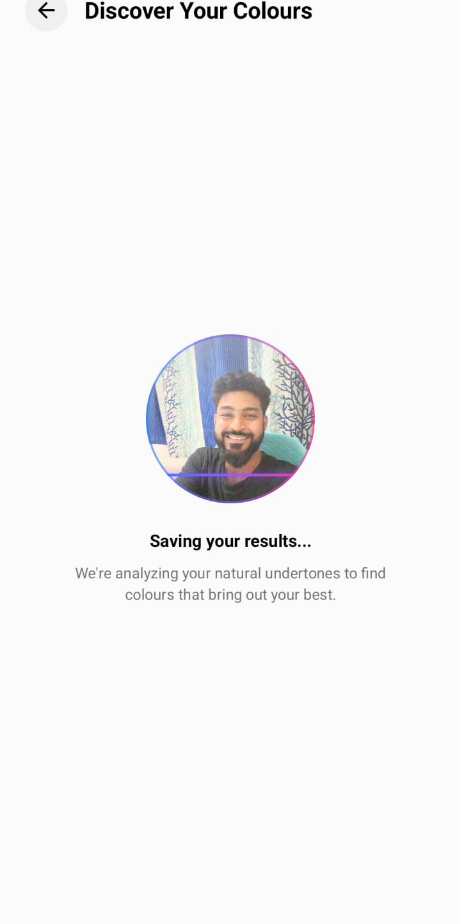
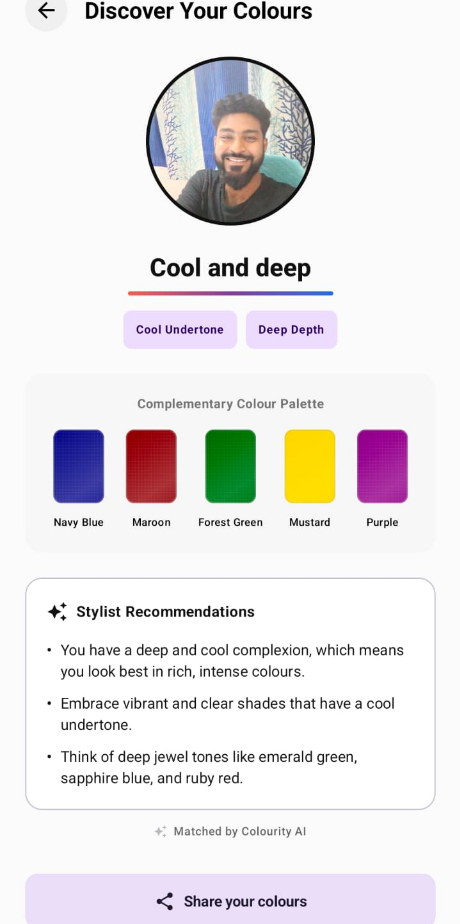
feat: replace Step 1 color analysis mockup with results screen and reduce hero mockup size for sharpness

diff --git a/index.html b/index.html
@@ -129,7 +129,7 @@
   <link rel="preconnect" href="https://fonts.googleapis.com" />
   <link rel="preconnect" href="https://fonts.gstatic.com" crossorigin />
   <link href="https://fonts.googleapis.com/css2?family=Outfit:wght@300;400;500;600;700;800;900&family=Inter:wght@300;400;500;600&display=swap" rel="stylesheet" />
-  <link rel="stylesheet" href="style.css?v=1.0.2" />
+  <link rel="stylesheet" href="style.css?v=1.0.3" />
 </head>
 <body>
 
@@ -212,7 +212,7 @@
 
     <div class="hero-visual">
       <div class="phone-glow"></div>
-      <img src="hero_mockup.png" alt="Colourity app screenshot showing Colourity AI personal colour analysis and outfit matching interface" class="hero-phone" width="520" loading="eager" />
+      <img src="hero_mockup.png" alt="Colourity app screenshot showing Colourity AI personal colour analysis and outfit matching interface" class="hero-phone" width="420" loading="eager" />
     </div>
   </section>
 

diff --git a/blog/12-season-vs-4-season-colour-analysis/index.html b/blog/12-season-vs-4-season-colour-analysis/index.html
@@ -33,7 +33,7 @@
   <link rel="preconnect" href="https://fonts.googleapis.com" />
   <link rel="preconnect" href="https://fonts.gstatic.com" crossorigin />
   <link href="https://fonts.googleapis.com/css2?family=Outfit:wght@300;400;500;600;700;800;900&family=Inter:wght@300;400;500;600&display=swap" rel="stylesheet" />
-  <link rel="stylesheet" href="../../style.css?v=1.0.2" />
+  <link rel="stylesheet" href="../../style.css?v=1.0.3" />
 
   <!-- ===== TECHNICAL SEO: SCHEMAS ===== -->
   <script type="application/ld+json">

diff --git a/blog/bridal-lehenga-colours-by-skin-tone/index.html b/blog/bridal-lehenga-colours-by-skin-tone/index.html
@@ -33,7 +33,7 @@
   <link rel="preconnect" href="https://fonts.googleapis.com" />
   <link rel="preconnect" href="https://fonts.gstatic.com" crossorigin />
   <link href="https://fonts.googleapis.com/css2?family=Outfit:wght@300;400;500;600;700;800;900&family=Inter:wght@300;400;500;600&display=swap" rel="stylesheet" />
-  <link rel="stylesheet" href="../../style.css?v=1.0.2" />
+  <link rel="stylesheet" href="../../style.css?v=1.0.3" />
 
   <!-- ===== TECHNICAL SEO: SCHEMAS ===== -->
   <script type="application/ld+json">

diff --git a/blog/capsule-wardrobe-by-colour-season/index.html b/blog/capsule-wardrobe-by-colour-season/index.html
@@ -33,7 +33,7 @@
   <link rel="preconnect" href="https://fonts.googleapis.com" />
   <link rel="preconnect" href="https://fonts.gstatic.com" crossorigin />
   <link href="https://fonts.googleapis.com/css2?family=Outfit:wght@300;400;500;600;700;800;900&family=Inter:wght@300;400;500;600&display=swap" rel="stylesheet" />
-  <link rel="stylesheet" href="../../style.css?v=1.0.2" />
+  <link rel="stylesheet" href="../../style.css?v=1.0.3" />
 
   <!-- ===== TECHNICAL SEO: SCHEMAS ===== -->
   <script type="application/ld+json">

diff --git a/blog/cloud-dancer-2026-colour-of-the-year-skin-tone/index.html b/blog/cloud-dancer-2026-colour-of-the-year-skin-tone/index.html
@@ -33,7 +33,7 @@
   <link rel="preconnect" href="https://fonts.googleapis.com" />
   <link rel="preconnect" href="https://fonts.gstatic.com" crossorigin />
   <link href="https://fonts.googleapis.com/css2?family=Outfit:wght@300;400;500;600;700;800;900&family=Inter:wght@300;400;500;600&display=swap" rel="stylesheet" />
-  <link rel="stylesheet" href="../../style.css?v=1.0.2" />
+  <link rel="stylesheet" href="../../style.css?v=1.0.3" />
 
   <!-- ===== TECHNICAL SEO: SCHEMAS ===== -->
   <script type="application/ld+json">

diff --git a/blog/complete-guide-indian-skin-tones-and-colours/index.html b/blog/complete-guide-indian-skin-tones-and-colours/index.html
@@ -33,7 +33,7 @@
   <link rel="preconnect" href="https://fonts.googleapis.com" />
   <link rel="preconnect" href="https://fonts.gstatic.com" crossorigin />
   <link href="https://fonts.googleapis.com/css2?family=Outfit:wght@300;400;500;600;700;800;900&family=Inter:wght@300;400;500;600&display=swap" rel="stylesheet" />
-  <link rel="stylesheet" href="../../style.css?v=1.0.2" />
+  <link rel="stylesheet" href="../../style.css?v=1.0.3" />
 
   <!-- ===== TECHNICAL SEO: SCHEMAS ===== -->
   <script type="application/ld+json">

diff --git a/blog/diwali-colours-by-skin-tone/index.html b/blog/diwali-colours-by-skin-tone/index.html
@@ -33,7 +33,7 @@
   <link rel="preconnect" href="https://fonts.googleapis.com" />
   <link rel="preconnect" href="https://fonts.gstatic.com" crossorigin />
   <link href="https://fonts.googleapis.com/css2?family=Outfit:wght@300;400;500;600;700;800;900&family=Inter:wght@300;400;500;600&display=swap" rel="stylesheet" />
-  <link rel="stylesheet" href="../../style.css?v=1.0.2" />
+  <link rel="stylesheet" href="../../style.css?v=1.0.3" />
 
   <!-- ===== TECHNICAL SEO: SCHEMAS ===== -->
   <script type="application/ld+json">

diff --git a/blog/how-to-color-block-indian-outfits/index.html b/blog/how-to-color-block-indian-outfits/index.html
@@ -33,7 +33,7 @@
   <link rel="preconnect" href="https://fonts.googleapis.com" />
   <link rel="preconnect" href="https://fonts.gstatic.com" crossorigin />
   <link href="https://fonts.googleapis.com/css2?family=Outfit:wght@300;400;500;600;700;800;900&family=Inter:wght@300;400;500;600&display=swap" rel="stylesheet" />
-  <link rel="stylesheet" href="../../style.css?v=1.0.2" />
+  <link rel="stylesheet" href="../../style.css?v=1.0.3" />
 
   <!-- ===== TECHNICAL SEO: SCHEMAS ===== -->
   <script type="application/ld+json">

diff --git a/blog/index.html b/blog/index.html
@@ -17,7 +17,7 @@
   <link rel="preconnect" href="https://fonts.googleapis.com" />
   <link rel="preconnect" href="https://fonts.gstatic.com" crossorigin />
   <link href="https://fonts.googleapis.com/css2?family=Outfit:wght@300;400;500;600;700;800;900&family=Inter:wght@300;400;500;600&display=swap" rel="stylesheet" />
-  <link rel="stylesheet" href="../style.css?v=1.0.2" />
+  <link rel="stylesheet" href="../style.css?v=1.0.3" />
 </head>
 <body>
 

diff --git a/blog/is-colour-analysis-legit/index.html b/blog/is-colour-analysis-legit/index.html
@@ -33,7 +33,7 @@
   <link rel="preconnect" href="https://fonts.googleapis.com" />
   <link rel="preconnect" href="https://fonts.gstatic.com" crossorigin />
   <link href="https://fonts.googleapis.com/css2?family=Outfit:wght@300;400;500;600;700;800;900&family=Inter:wght@300;400;500;600&display=swap" rel="stylesheet" />
-  <link rel="stylesheet" href="../../style.css?v=1.0.2" />
+  <link rel="stylesheet" href="../../style.css?v=1.0.3" />
 
   <!-- ===== TECHNICAL SEO: SCHEMAS ===== -->
   <script type="application/ld+json">

diff --git a/blog/kurta-colours-by-skin-tone/index.html b/blog/kurta-colours-by-skin-tone/index.html
@@ -33,7 +33,7 @@
   <link rel="preconnect" href="https://fonts.googleapis.com" />
   <link rel="preconnect" href="https://fonts.gstatic.com" crossorigin />
   <link href="https://fonts.googleapis.com/css2?family=Outfit:wght@300;400;500;600;700;800;900&family=Inter:wght@300;400;500;600&display=swap" rel="stylesheet" />
-  <link rel="stylesheet" href="../../style.css?v=1.0.2" />
+  <link rel="stylesheet" href="../../style.css?v=1.0.3" />
 
   <!-- ===== TECHNICAL SEO: SCHEMAS ===== -->
   <script type="application/ld+json">

diff --git a/blog/office-wear-colours-that-suit-you/index.html b/blog/office-wear-colours-that-suit-you/index.html
@@ -33,7 +33,7 @@
   <link rel="preconnect" href="https://fonts.googleapis.com" />
   <link rel="preconnect" href="https://fonts.gstatic.com" crossorigin />
   <link href="https://fonts.googleapis.com/css2?family=Outfit:wght@300;400;500;600;700;800;900&family=Inter:wght@300;400;500;600&display=swap" rel="stylesheet" />
-  <link rel="stylesheet" href="../../style.css?v=1.0.2" />
+  <link rel="stylesheet" href="../../style.css?v=1.0.3" />
 
   <!-- ===== TECHNICAL SEO: SCHEMAS ===== -->
   <script type="application/ld+json">